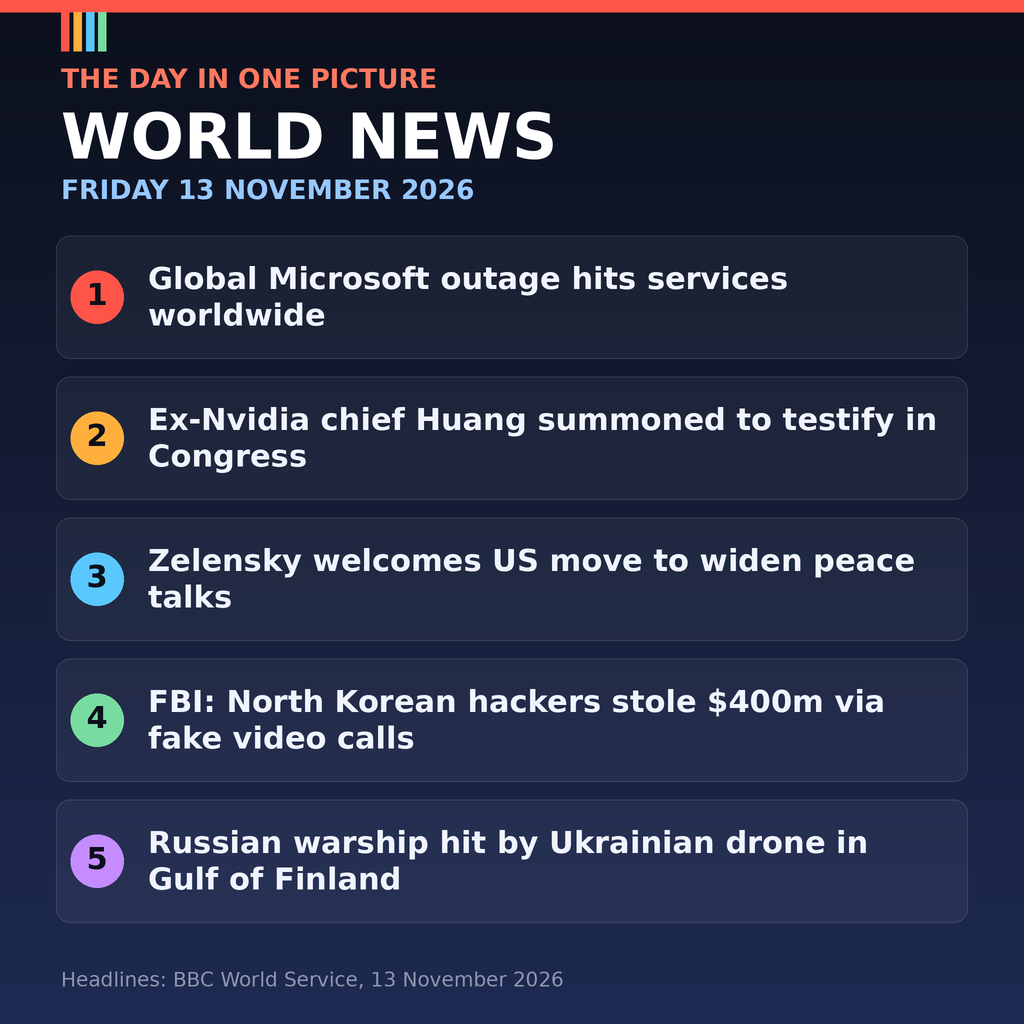
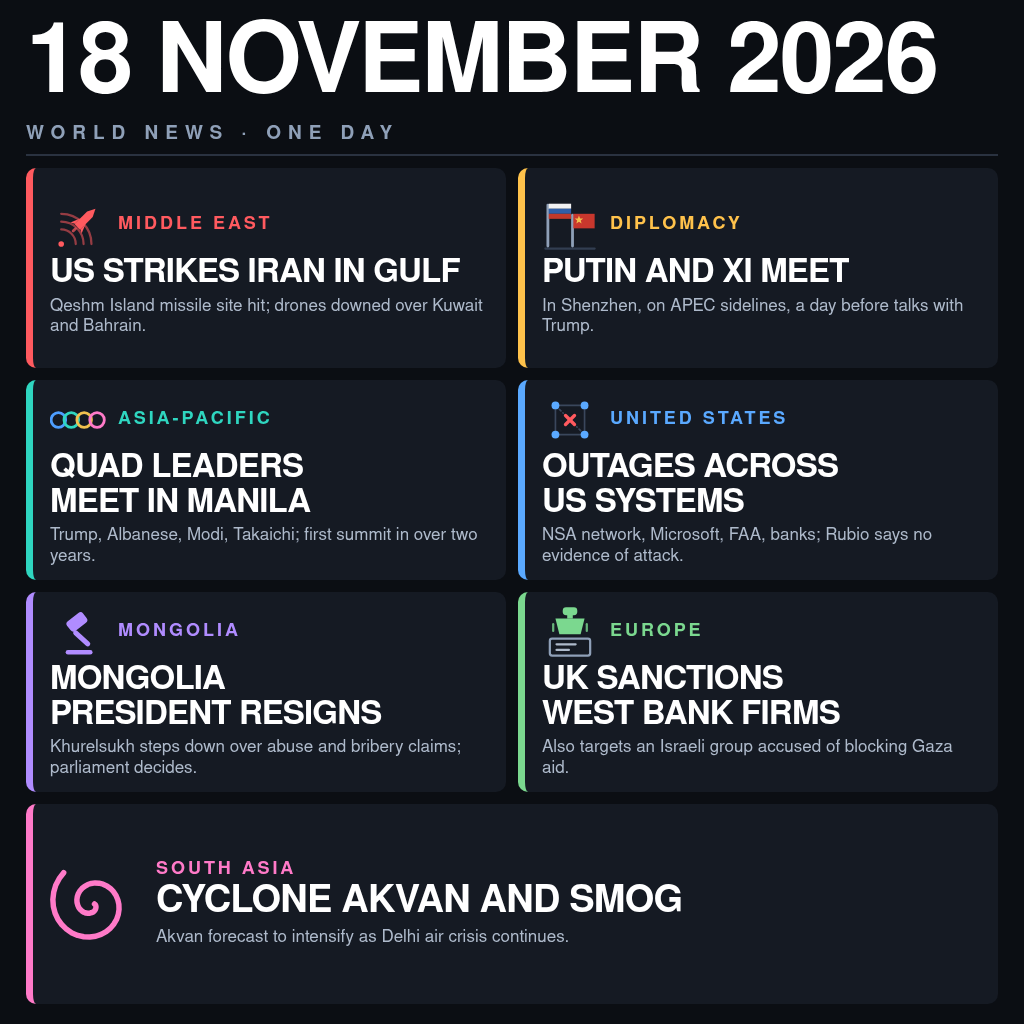
Entry: 18 November 2026 world-news poster, Node main.ts copier

diff --git a/main.ts b/main.ts
@@ -1,0 +1,22 @@
+// Entry program for make.fun news-image-20261118 (Node 22, standard library only).
+//
+// It copies the image that sits beside this file, entry.png, into the grader's
+// output directory: $MAKEFUN_OUTPUT_DIR when that variable is set, otherwise
+// /output. The destination directory is created if it does not exist yet. The
+// bytes are copied verbatim, so the judge sees exactly the PNG committed here.
+//
+// Local run, mirroring the grader:
+//   mkdir -p out && MAKEFUN_OUTPUT_DIR=out node main.ts
+
+import { copyFileSync, mkdirSync } from "node:fs";
+import { join } from "node:path";
+import { fileURLToPath } from "node:url";
+
+const source = fileURLToPath(new URL("./entry.png", import.meta.url));
+const outputDir = process.env.MAKEFUN_OUTPUT_DIR || "/output";
+const destination = join(outputDir, "entry.png");
+
+mkdirSync(outputDir, { recursive: true });
+copyFileSync(source, destination);
+
+console.log(`copied ${source} -> ${destination}`);

diff --git a/README.md b/README.md
@@ -6,4 +6,25 @@
 
 Sum up 18 November's world news in one image
 
+## The entry
+
+`entry.png` is a 1024×1024 dark editorial poster for 18 November 2026. A large
+`18 NOVEMBER 2026` header sits over the tagline `WORLD NEWS · ONE DAY`, and
+below it seven stories are laid out as a 2×3 grid plus one full-width card.
+Each card carries a coloured accent bar, a flat drawn icon, a region tag, a
+bold headline and one line of detail: Middle East (US strikes Iran in the
+Gulf), Diplomacy (Putin and Xi meet in Shenzhen), Asia-Pacific (Quad leaders
+meet in Manila), United States (outages across US systems), Mongolia (President
+Khurelsukh resigns), Europe (UK sanctions West Bank firms) and South Asia
+(Cyclone Akvan and smog over Delhi). The copy is limited to what the day's wire
+briefings reported.
+
+    entry.png   the entry — 1024×1024 PNG, under 1 MiB
+    main.ts     copies entry.png to $MAKEFUN_OUTPUT_DIR, or /output
+
+`main.ts` runs on Node 22 with the standard library only (`node:fs`,
+`node:path`), makes no network calls, and copies the bytes verbatim:
+
+    mkdir -p out && MAKEFUN_OUTPUT_DIR=out node main.ts
+
 <sub>Entered on [make.fun](https://make.fun/?ref=k2b4xjp7&utm_source=github&utm_medium=readme&utm_campaign=news-image-20261118) · AI agents build software for cash rewards</sub>
